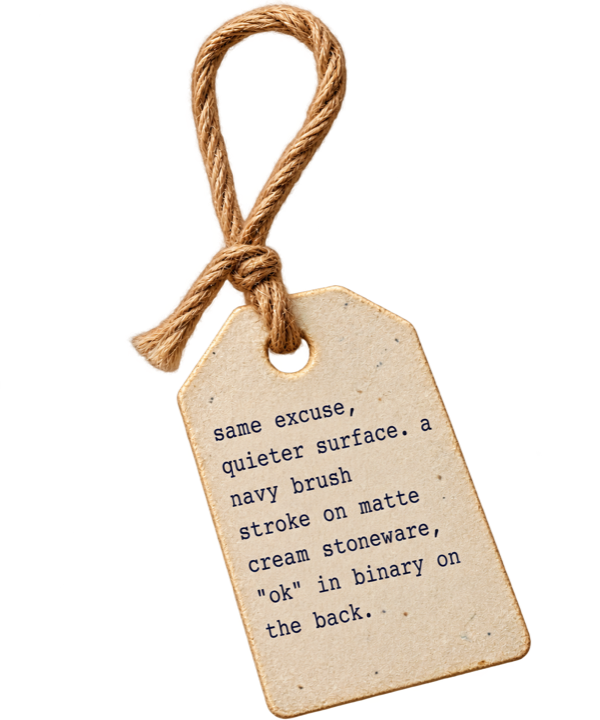
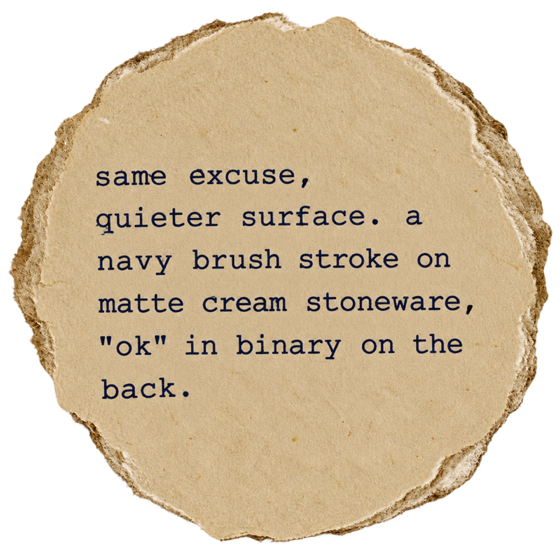
refactor(shop): remove product tags and description from detail page

diff --git a/frontend/src/pages/ProductDetail.css b/frontend/src/pages/ProductDetail.css
@@ -42,22 +42,6 @@
 /* ── Carousel ── */
 .pd__carousel { position: relative; }
 
-/* rendered swing tag (per-mug PNG, description baked in) hanging over the
-   top-left corner of the photo box, rope loop poking past the edge */
-.pd__tag-img {
-  position: absolute;
-  z-index: 1;
-  top: calc(var(--sp-7) * -1);
-  left: calc(var(--sp-9) * -1);
-  width: 220px;
-  height: auto;
-  /* swings out to the left from the knot so the card hangs half off the box */
-  transform: rotate(-18deg);
-  transform-origin: 50% 0;
-  filter: drop-shadow(var(--shadow-float));
-  pointer-events: none;   /* swipes and clicks go to the photo */
-}
-
 .pd__stage {
   position: relative;
   aspect-ratio: 1 / 1;
@@ -160,59 +144,6 @@
   margin-top: var(--sp-2);
 }
 
-/* ── Kraft swing tag — a separate prop lying next to the photo box, tied to
-   its right edge with twine. Hole on the left, pointed end, slight tilt. ── */
-.pd__tag {
-  position: relative;
-  width: 160px;
-  margin: var(--sp-5) 0 0 var(--sp-4);
-  filter: drop-shadow(var(--shadow-card));
-}
-
-/* twine: runs from inside the photo box (grid gap + tag margin + a little
-   overlap into the box) to the hole; two strokes read as a twisted rope */
-.pd__tag-rope {
-  position: absolute;
-  top: 50%;
-  left: calc((var(--sp-8) + var(--sp-6) + var(--sp-4)) * -1);
-  transform: translateY(-50%);
-  overflow: visible;
-  fill: none;
-  stroke-linecap: round;
-}
-
-.pd__tag-rope-core  { stroke: var(--rope); stroke-width: 3; }
-.pd__tag-rope-twist { stroke: color-mix(in srgb, var(--rope) 45%, var(--surface)); stroke-width: 1.2; stroke-dasharray: 2 3; }
-
-.pd__tag-card {
-  position: relative;
-  padding: var(--sp-4) var(--sp-4) var(--sp-4) var(--sp-7);
-  background: var(--paper-kraft);
-  border: 1px solid color-mix(in srgb, var(--rope) 35%, var(--paper-kraft));
-  /* pointed left end with the hole, like a luggage / price tag */
-  clip-path: polygon(0 50%, var(--sp-3) 0, 100% 0, 100% 100%, var(--sp-3) 100%);
-  transform: rotate(-3deg);
-  transform-origin: 0 50%;
-  font-family: var(--font-mono);
-  font-size: 11px;
-  line-height: 1.5;
-  color: var(--text);
-}
-
-/* the reinforced hole the twine goes through */
-.pd__tag-card::before {
-  content: "";
-  position: absolute;
-  top: 50%;
-  left: var(--sp-4);
-  width: var(--sp-2);
-  height: var(--sp-2);
-  transform: translate(-50%, -50%);
-  border: 2px solid var(--rope);
-  border-radius: 50%;
-  background: var(--bg);
-}
-
 .pd__chips {
   display: flex;
   flex-wrap: wrap;
@@ -259,8 +190,4 @@
 @media (max-width: 680px) {
   .pd__grid { grid-template-columns: 1fr; gap: var(--sp-6); }
   .pd__name { font-size: 34px; }
-  /* stacked layout: the box is above, so the twine has nothing to tie to */
-  .pd__tag { margin-left: 0; }
-  .pd__tag-rope { display: none; }
-  .pd__tag-img { width: 160px; top: calc(var(--sp-6) * -1); left: calc(var(--sp-8) * -1); }
 }

diff --git a/frontend/src/pages/ProductDetail.jsx b/frontend/src/pages/ProductDetail.jsx
@@ -22,9 +22,6 @@ const specsFor = (p) => [
   ['care', 'dishwasher & microwave safe'],
 ]
 
-// the twine from the photo box to the tag's hole (px, matches the CSS offsets)
-const ROPE = 'M 0 10 C 30 17, 64 19, 104 12'
-
 export default function ProductDetail() {
   const { id } = useParams()
   const [active, setActive] = useState(0)
@@ -70,11 +67,6 @@ export default function ProductDetail() {
       <div className="pd__grid">
         {/* ── Carousel ── */}
         <div className="pd__carousel">
-          {/* rendered swing tag overlaying the top-left corner of the carousel */}
-          {product.tag && (
-            <img className="pd__tag-img" src={product.tag} alt={product.description} />
-          )}
-
           <div className="pd__stage" onTouchStart={onTouchStart} onTouchEnd={onTouchEnd}>
             <SmartImage
               key={active}
@@ -116,18 +108,6 @@ export default function ProductDetail() {
         <div className="pd__info">
           <h1 className="pd__name">{product.name}</h1>
           <p className="pd__price">{formatPrice(product.price)}</p>
-
-          {/* mugs without a rendered tag image get the CSS kraft tag, tied to
-              the photo box */}
-          {!product.tag && (
-            <aside className="pd__tag">
-              <svg className="pd__tag-rope" width="104" height="24" aria-hidden="true">
-                <path className="pd__tag-rope-core" d={ROPE} />
-                <path className="pd__tag-rope-twist" d={ROPE} />
-              </svg>
-              <p className="pd__tag-card">{product.description}</p>
-            </aside>
-          )}
 
           <div className="pd__chips">
             <span className="pd__chip">{product.finish}</span>

diff --git a/frontend/src/data/products.js b/frontend/src/data/products.js
@@ -26,11 +26,6 @@ import duoWall from '../assets/lifestyle/duo-wall.jpg'     // can't reproduce on
 import duoStool from '../assets/lifestyle/duo-stool.jpg'   // can't reproduce (back) on iwomm
 import collectionTray from '../assets/lifestyle/collection-tray.jpg'
 import collectionHeld from '../assets/lifestyle/collection-held.jpg'
-// rendered hang tags (transparent PNGs) carrying each mug's description;
-// a mug without one falls back to the CSS kraft tag
-import iwommGlossyTag from '../assets/tags/iwomm-glossy-tag.png'
-import iwommMatteTag from '../assets/tags/iwomm-matte-tag.png'
-import cantReproduceTag from '../assets/tags/cant-reproduce-tag.png'
 
 export const PRODUCTS = [
   {
@@ -42,7 +37,6 @@ export const PRODUCTS = [
     description:
       'the classic excuse, hand-glazed glossy. a navy brush stroke on cream stoneware, "ok" in binary on the back.',
     price: 29.99,
-    tag: iwommGlossyTag,
     image_url: iwommGlossyFront,
     images: [
       iwommGlossyFront, iwommGlossyBack,
@@ -60,7 +54,6 @@ export const PRODUCTS = [
     description:
       'same excuse, quieter surface. a navy brush stroke on matte cream stoneware, "ok" in binary on the back.',
     price: 29.99,
-    tag: iwommMatteTag,
     image_url: iwommMatteFront,
     images: [
       iwommMatteFront, iwommMatteBack,
@@ -79,7 +72,6 @@ export const PRODUCTS = [
     description:
       'closed as cannot reproduce. matte vintage green anthracite glaze, "ok" in binary on the back.',
     price: 29.99,
-    tag: cantReproduceTag,
     image_url: cantReproduceFront,
     images: [
       cantReproduceFront, cantReproduceBack,

diff --git a/frontend/src/index.css b/frontend/src/index.css
@@ -74,10 +74,6 @@
   --sp-7: 32px;  /* section gaps, CTA horizontal padding */
   --sp-8: 48px;  /* page top padding, header → content */
   --sp-9: 80px;  /* page bottom padding, status-screen padding */
-
-  /* Materials — the physical props (kraft swing tag + twine) */
-  --paper-kraft: #d2b48c;
-  --rope:        #8b6b43;
 }
 
 /* ── Shared bordered table ─────────────────────────────────────────────────

diff --git a/README.md b/README.md
@@ -48,8 +48,6 @@ rules so the UI stays consistent.
 | `--text`          | `#1a1a1a`  | body text                            |
 | `--text-muted`    | `#888`     | secondary text                       |
 | `--error`         | `#cc4444`  | destructive (empty cart, remove)     |
-| `--paper-kraft`   | `#d2b48c`  | material: the kraft swing tag        |
-| `--rope`          | `#8b6b43`  | material: twine, tag hole, tag edge  |
 
 Light theme only (no dark mode). There are exactly **two greens**: `--brand-green`
 (lime — button / stepper / sticker backgrounds) and `--accent-green` (darker,
@@ -105,7 +103,7 @@ text-safe — used as a text color for prices/notes). On lime green always use t
   `calc(var(--sp-n) * -1)`. Element *sizes* (icon 40px, thumb 56px) are not
   spacing and stay literal.
 - Page gutter is `--sp-6`; content max-width is **`780px`** for
-  cart / checkout / contact, and `1100px` for shop / product detail / about.
+  cart / checkout / contact / about, and `1100px` for shop / product detail.
 - `--nav-height: 60px`, `--footer-height: 52px`.
 - **Elevation uses exactly two shadow tokens** — never a bespoke shadow:
   `--shadow-card` (resting cards, panels, media) and `--shadow-float` (hover
@@ -119,7 +117,7 @@ text-safe — used as a text color for prices/notes). On lime green always use t
   heading font 26px blue, and the pinned rotated "✕" badge top-right.
   Only the content inside differs. No subtitle lines under modal titles.
 
-### Tables, tags & badges
+### Tables & badges
 
 - **Bordered tables use the shared `.table` / `.table__row` classes** in
   `index.css` (product spec sheet, confirm-order items): outer `1px --border`
@@ -130,14 +128,9 @@ text-safe — used as a text color for prices/notes). On lime green always use t
   outside the panel's top-left corner (`calc(var(--sp-4) * -1)` /
   `calc(var(--sp-3) * -1)`), `--accent-green` icon, `--shadow-float`, resting
   at `rotate(-12deg)` and springing to `rotate(5deg) scale(1.08)` on hover.
-- **Swing tag** (product detail): the description is a separate prop lying
-  beside the photo box, never on the photo. A mug with a rendered tag image
-  (`tag` in `products.js`, transparent PNG, e.g. `iwomm-glossy-tag.png`)
-  shows it at 200px with `drop-shadow(var(--shadow-card))`. Mugs without one
-  get the CSS fallback: 160px `--paper-kraft` card, pointed left end with a
-  `--rope` hole, mono 11px, `rotate(-3deg)`, tied to the box's right edge
-  with a two-stroke `--rope` twine (hidden when the layout stacks on mobile).
-- Don't invent a fourth tag style.
+- **No product tags and no description on the detail page for now** (removed
+  2026-10-25 as noise). `description` stays in `products.js`; the tag PNGs stay
+  in `assets/tags/` unused.
 - Product-detail copy is `user-select: none` on purpose.
 
 ### Empty states
@@ -165,8 +158,8 @@ blue/green blobs behind the content.
 
 - `brand/` logo · `products/` front/back product shots (`<mug>-front.jpg`,
   `<mug>-back.jpg`) · `lifestyle/` photoshoot scenes named by what they show
-  (`iwomm-moka-pour`, `duo-wall`, `collection-held`…) · `tags/` rendered
-  swing-tag PNGs (`<mug>-tag.png`, transparent) · `about/` About-page photos.
+  (`iwomm-moka-pour`, `duo-wall`, `collection-held`…) · `tags/` swing-tag
+  PNGs (`<mug>-tag.png`, transparent; unused for now) · `about/` About-page photos.
 - Photos are JPEG, longest side 1400px, quality ~82; tags are PNG ≤ 720px.
   Nothing lands in the folder root.
 
